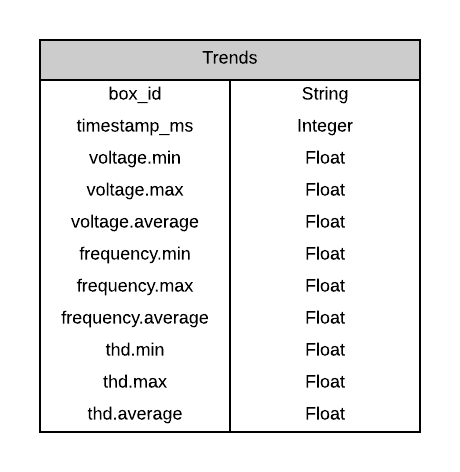
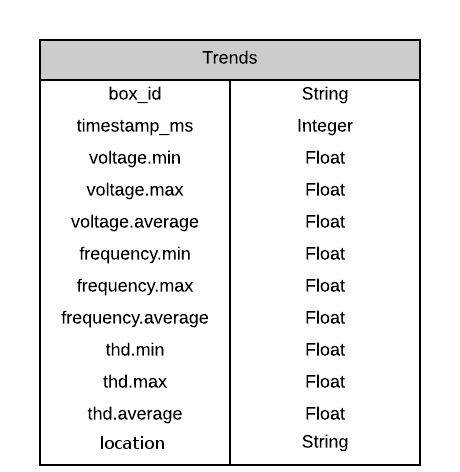
Reflect the new trend datamodel

Changed region(s): [[0.0913, 0.8898, 0.913, 1.0], [0.0609, 0.9195, 0.0913, 0.9788]]

diff --git a/docs/cloud-datamodel.md b/docs/cloud-datamodel.md
@@ -56,6 +56,8 @@ The **frequency** field is an *object* with **min**, **max**, and **average** su
 
 The **thd** field is an *object* with **min**, **max**, and **average** sub-fields, which holds the minimum, maximum, and average thd values encountered over a one minute data collection window.
 
+The **location** field is the location of the opqbox.
+
 ## Events and Box Events
 
 When a service (such as Mauka or Makai) notices an anomaly in the measurement data stream it creates an Event document, specifying a set of boxes from which it would like high fidelity data, as well as a time interval for which it would like high fidelity data from each box (if the box has this data avaiable to give).
